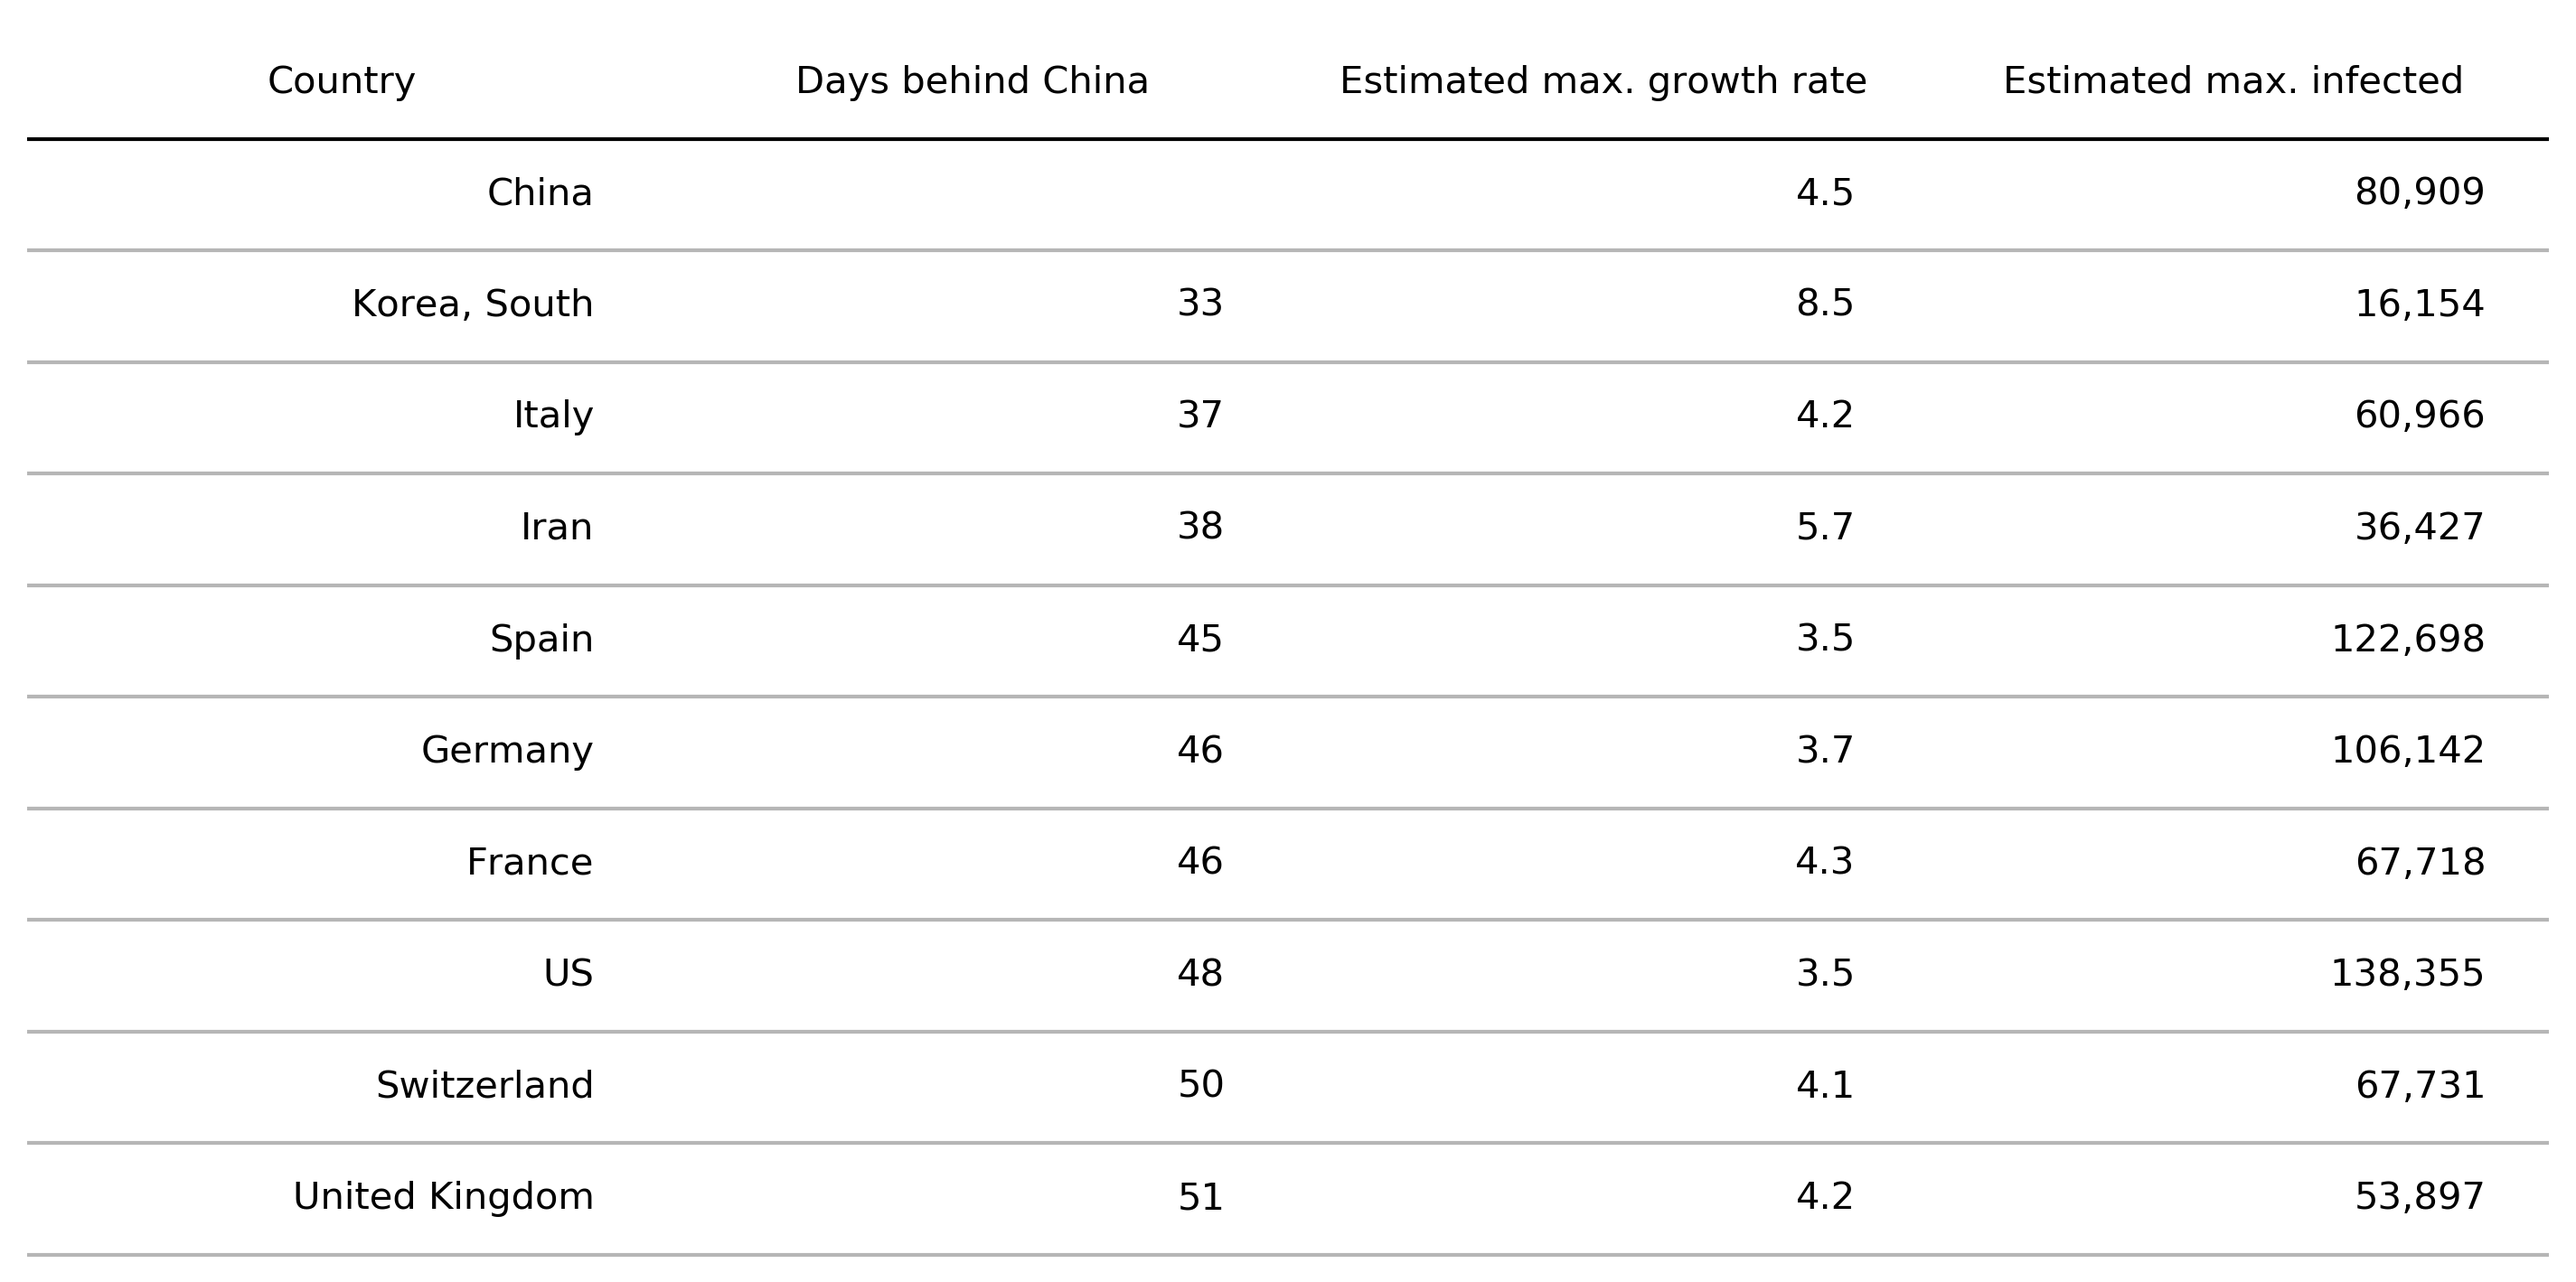
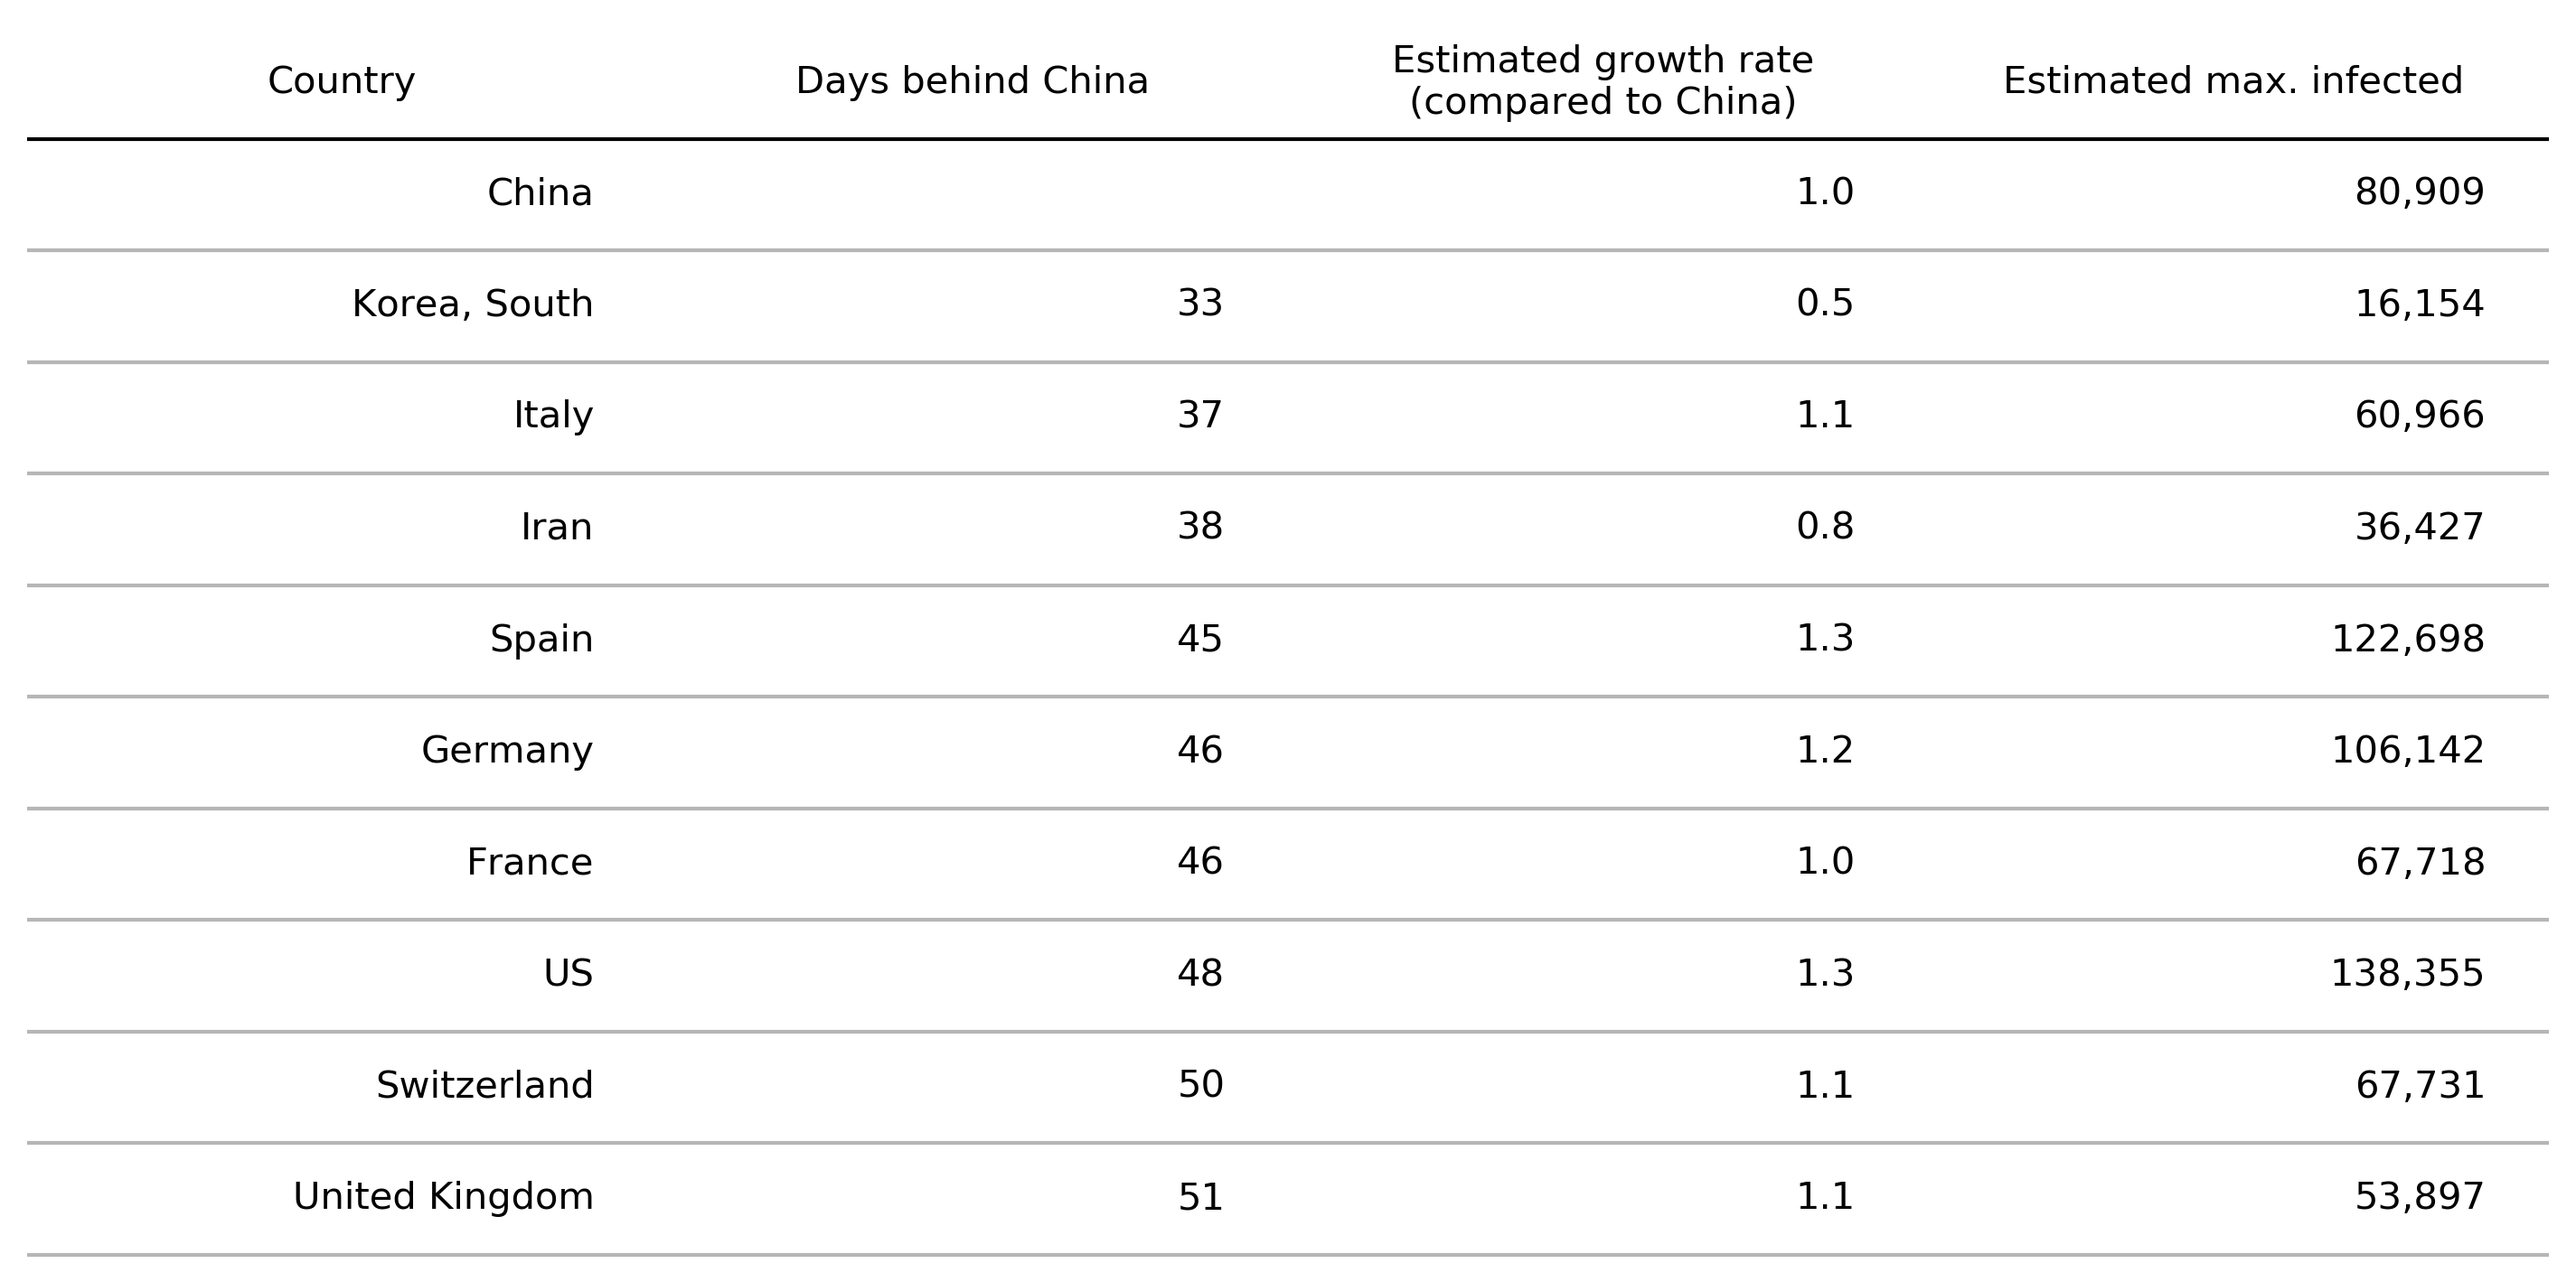
update interpretation of growth rate

diff --git a/plot_trends.py b/plot_trends.py
@@ -134,12 +134,13 @@ for d in dat:
   print(country_name, *p, offset)
 
 #%% plot summary table
+china_slope = dat[0]['p'][1]
 table_data = []
 for d in dat:
   country_name, offset, p = itemgetter('name', 'offset', 'p')(d)
   # name, days behind china, growth rate, max infected
   table_data.append(
-    [country_name, f'{offset}', f'{(-1 * p[1]):.1f}', f'{p[0]:,.0f}']
+    [country_name, '' if country_name == 'China' else f'{offset}', f'{(china_slope/p[1]):.1f}', f'{p[0]:,.0f}']
   )
 
 fig = plt.figure(figsize=(12, 6))
@@ -156,11 +157,10 @@ ax.spines['bottom'].set_visible(False)
 table = plt.table(
   cellText=table_data,
   edges='B',
-  colLabels=['Country', 'Days behind China', 'Estimated max. growth rate', 'Estimated max. infected'],
+  colLabels=['Country', 'Days behind China', 'Estimated growth rate\n(compared to China)', 'Estimated max. infected'],
   bbox=[0, 0, 1, 1],
 )
 table.auto_set_font_size(False)
-# table.set_fontsize('large')
 for index, cell in enumerate(table.get_children()):
   if index < len(table.get_children()) - 4:
     cell.set_edgecolor(colors['light_gray'])
@@ -193,7 +193,7 @@ for d in dat:
   )
 
 # plots the now line
-y_max = 200000
+y_max = 150000
 now = np.datetime64('now').astype('datetime64[D]') - np.timedelta64(1, 'D')
 plt.vlines(now, ymin=0, ymax=y_max, colors=colors['very_light_gray'], linestyles='dashed')
 plt.annotate('Actual', xy=(now - np.timedelta64(1, 'D'), y_max - 5000), ha='right', va='top')
